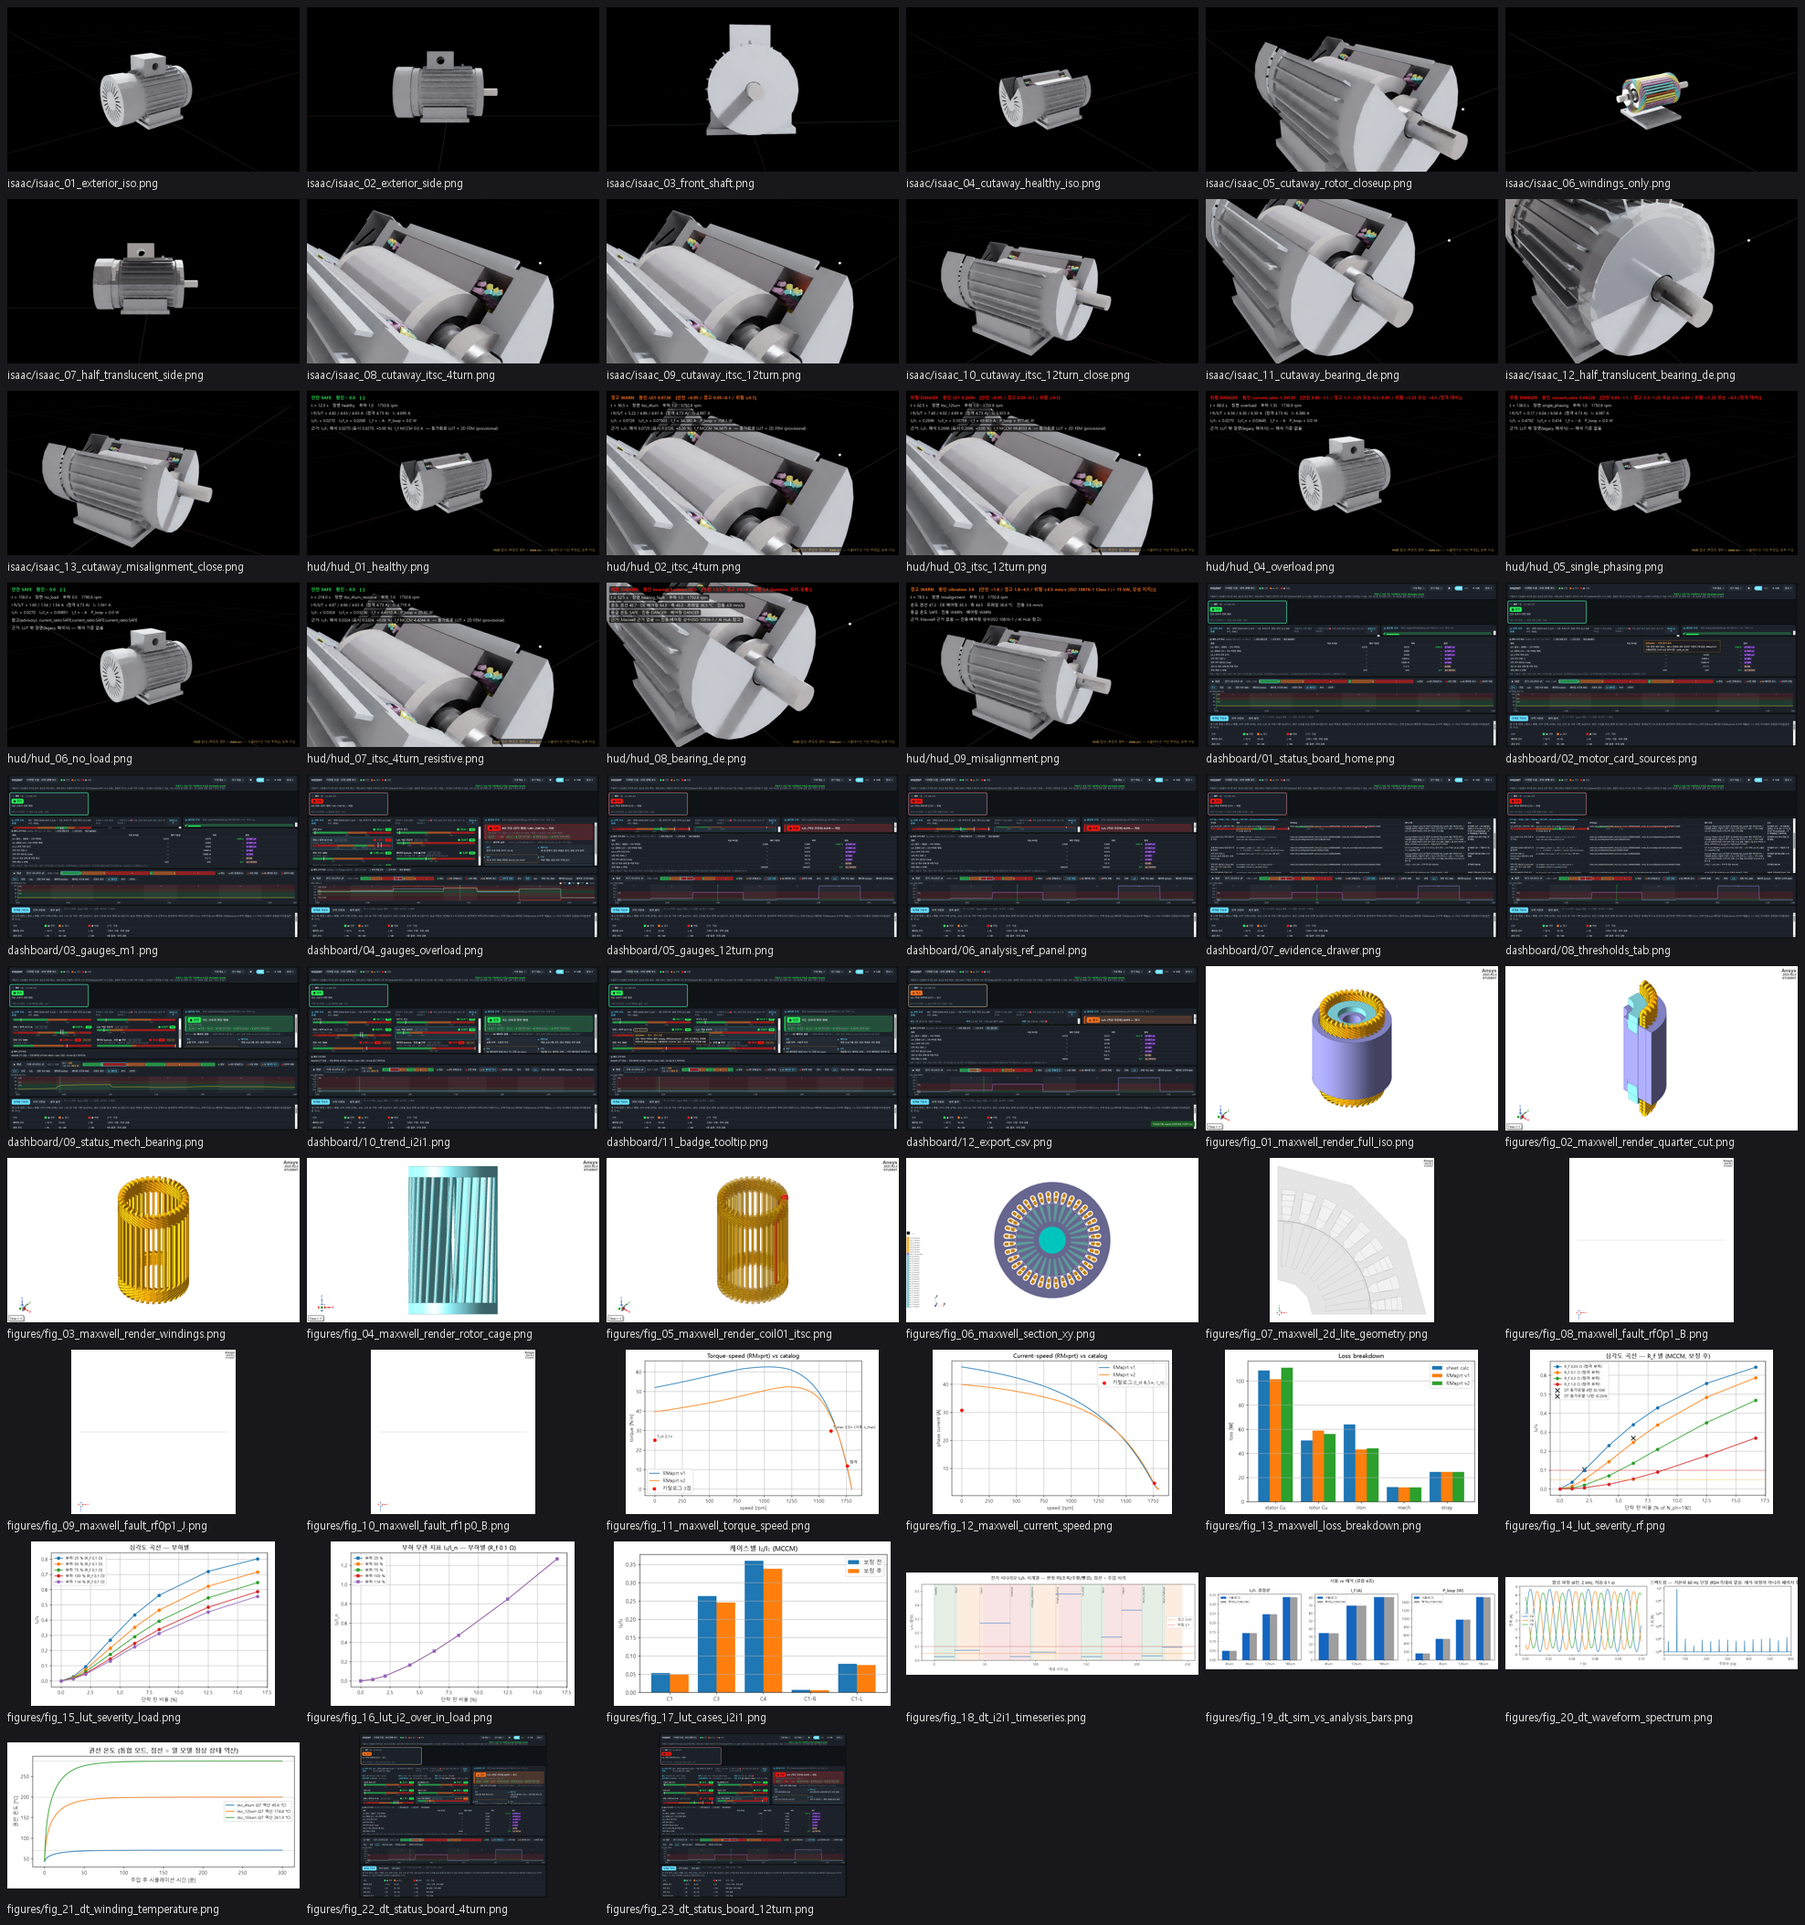
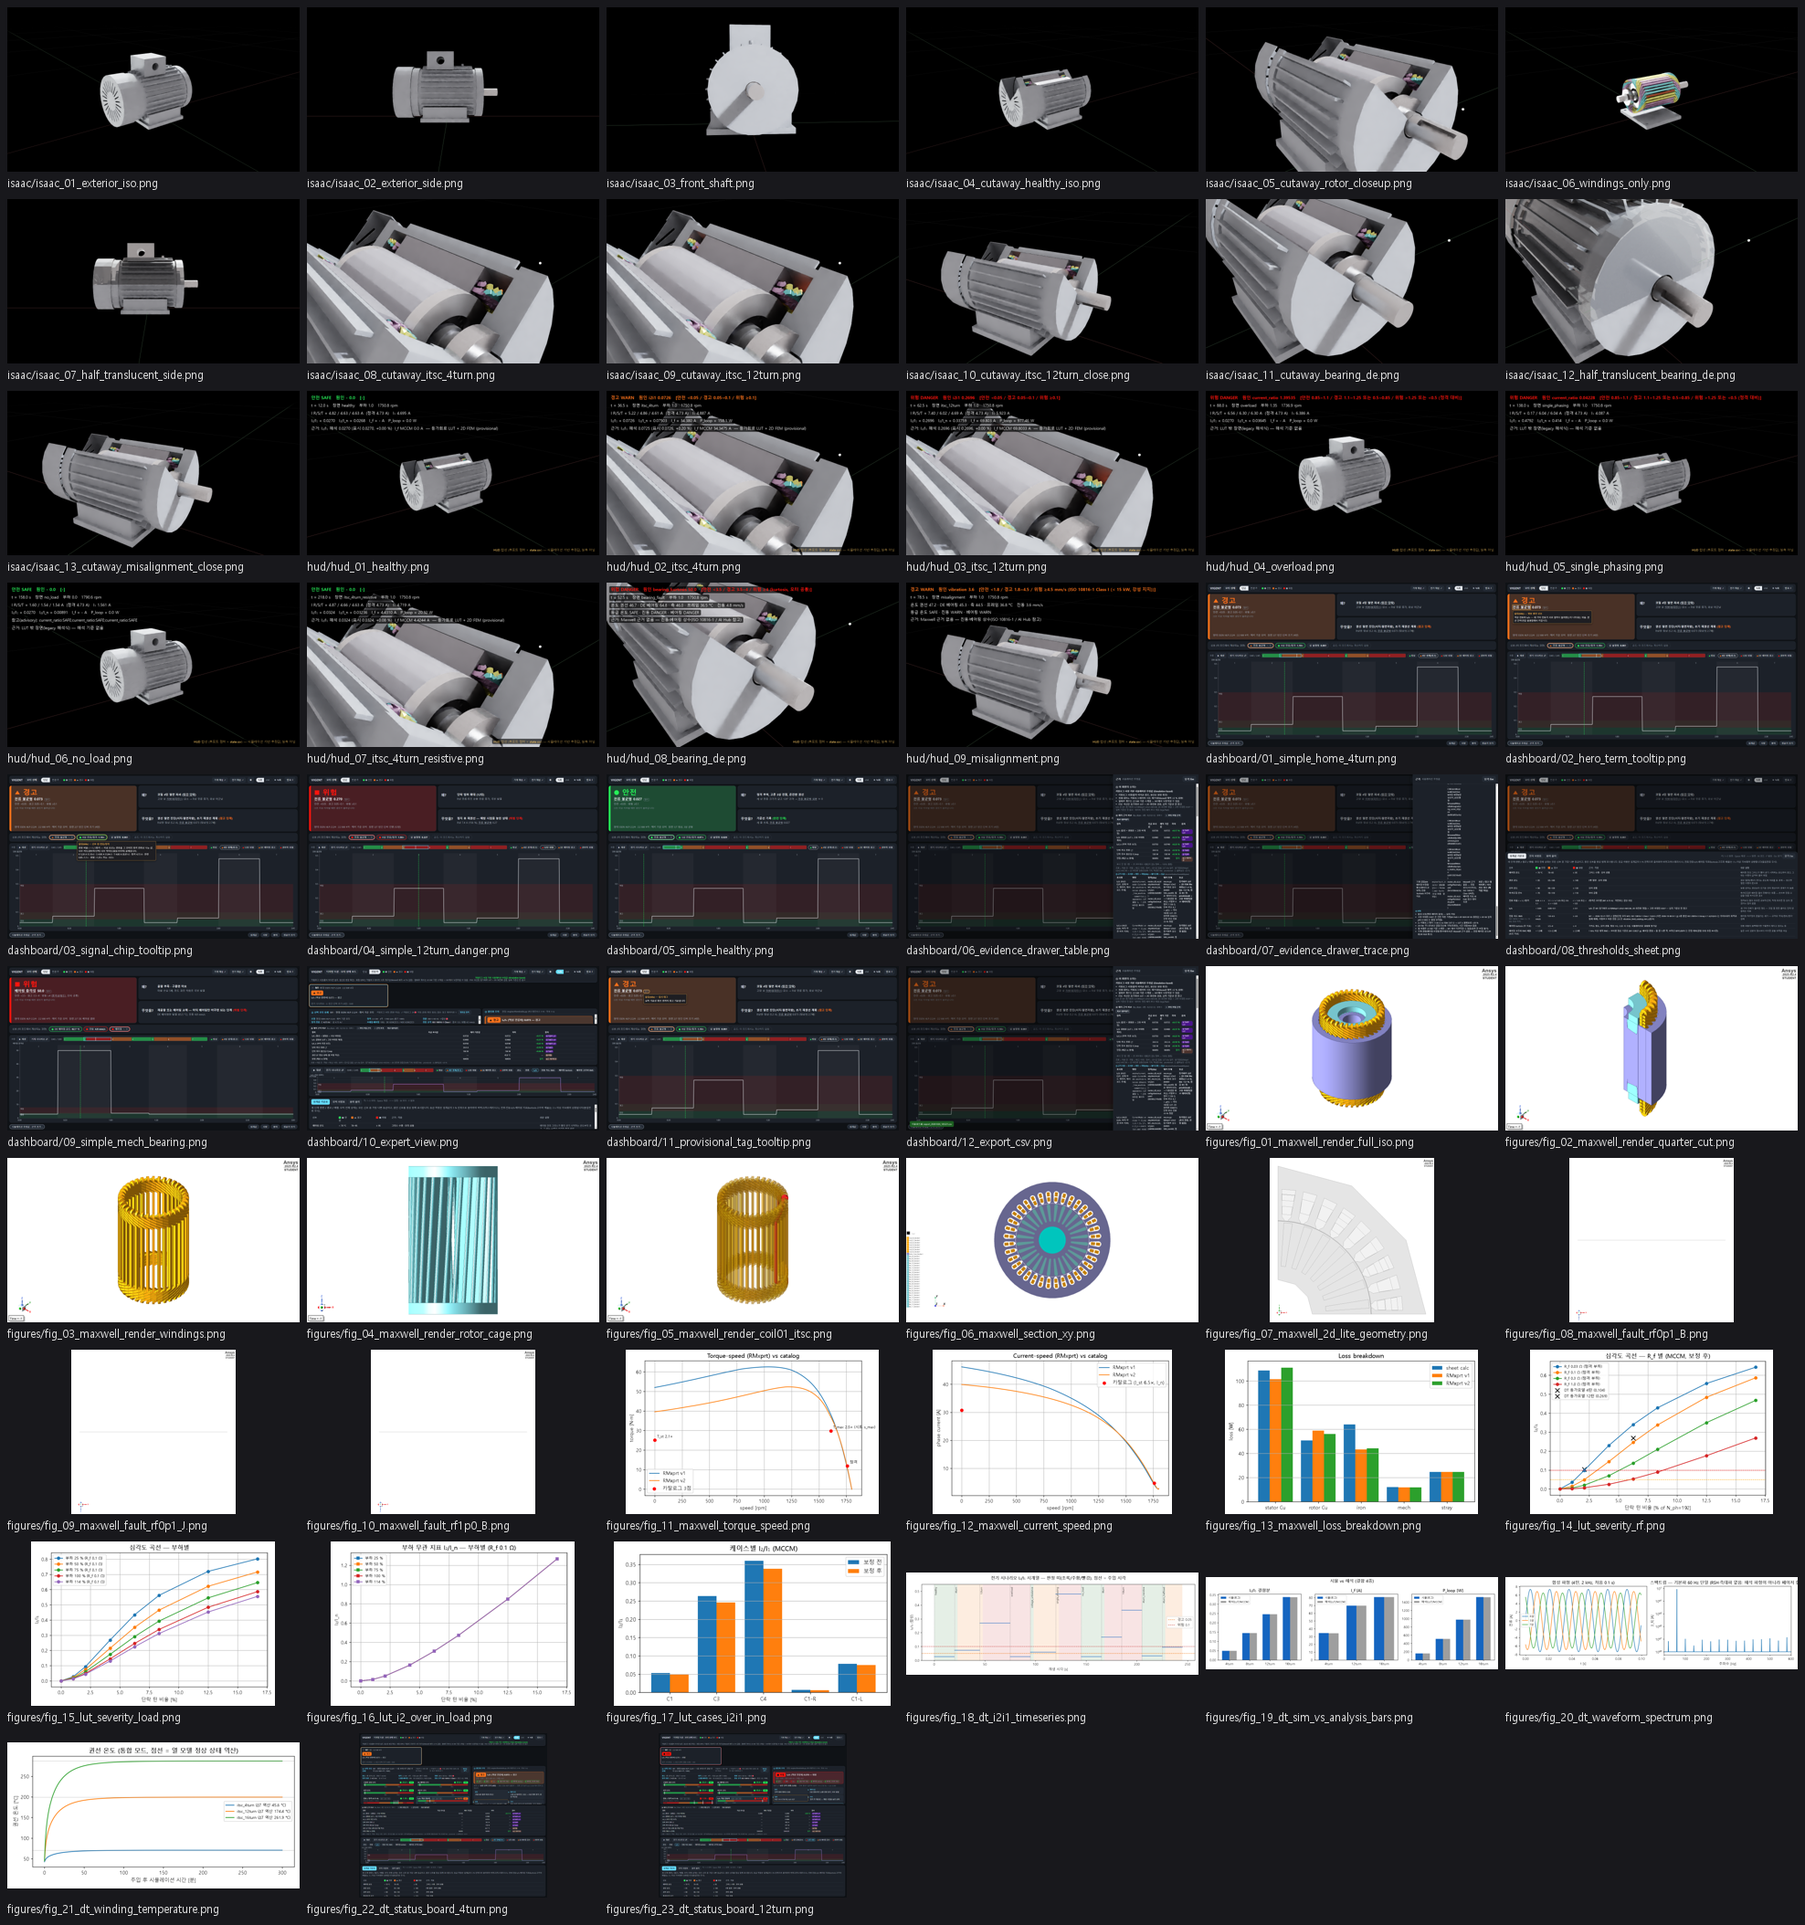
media: dashboard captures on simple view
상태 보드 단순 보기 기준으로 대시보드 사진 12장·워크스루·side-by-side 재캡처(dashboard_shots.mjs: 사진마다 새 문서 로드, PHOTOS_ONLY 스위치). index/meta/README 재생성.

Changed region(s): [[0.0, 0.3083, 1.0, 0.5859]]

diff --git a/motor_dt_viz/tools/media/capture_all.py b/motor_dt_viz/tools/media/capture_all.py
@@ -531,6 +531,7 @@ def write_readme(root: str, date: str, meta: dict, sections: dict):
          "Isaac 은 PowerShell/cmd 에서만 (Git Bash 자식은 Startup 직후 조용히 종료). 카메라 프리셋은 `tools/media/cameras.yaml` = `viz/m1_model.py` 의 값, 캡처용 인자는 `--res W H`·`--cam_plan`·`--shot_plan`(파일명 `@WxH`).", "",
          "## 한계", "- Isaac 뷰포트 캡처(`capture_viewport_to_file`)에는 omni.ui HUD 가 찍히지 않는다 → `hud/` 는 같은 시각 state.csv 값을 합성한 것(`check_vs_state.json` 으로 1회 대조). 영상(`--record`)은 데스크톱 창 캡처라 HUD 가 그대로 들어간다.",
          "- 대시보드 네이티브 title 툴팁은 스크린샷에 안 찍혀 같은 문장을 DOM 오버레이로 그렸다(페이지 코드 변경 없음, 캡션에 원문).", "- 해설 화면(#/electrical, #/mechanical)은 이전 22 kW 녹화 영상을 재생하므로 제외했다 — 상태 보드(#/status) 기준으로 대체.",
+         "- 대시보드 사진·영상은 상태 보드 **단순 보기**(2026-10-26 `dashboard: simple view (3-layer IA)` 이후) 기준이다. 전문가 보기는 10번 사진 한 장. 22 kW 문구는 근거 서랍·전문가 보기의 정직성 주석에만 보인다(index.md 표시).",
          "- 영상의 창 캡처는 창 테두리를 포함할 수 있어 1920×1080 으로 scale/pad 했다(검은 여백 가능).", ""]
     if big:
         L += ["## 60 MB 초과 영상(저장소 밖)", ""] + [f"- {c['file']} {c['size_mb']} MB → 로컬 `docs/media/{date}/video/` 에만 둠" for c in big] + [""]

diff --git a/docs/media/20261026/index.md b/docs/media/20261026/index.md
@@ -1,6 +1,6 @@
 # 보고용 미디어 팩 — 2026-10-26
 
-M1 (HLP-2.2/4) 디지털 트윈 — Isaac Sim 4.5 장면·HUD·대시보드·해석 그림. 커밋 DT `75bd475` · Maxwell `3c4e22e` · 시드 없음(결정적) · 배속 1×.
+M1 (HLP-2.2/4) 디지털 트윈 — Isaac Sim 4.5 장면·HUD·대시보드·해석 그림. 커밋 DT `166ba85` · Maxwell `3c4e22e` · 시드 없음(결정적) · 배속 1×.
 모든 숫자는 엔진 출력(state.csv)·검증 산출물·LUT 값이며 연출용 숫자는 없다. 파일명은 ASCII, 설명은 이 표의 캡션. 규격·재현·수동 캡처 체크리스트는 `README.md`.
 
 ![contact sheet](contact_sheet.png)  (57 장 썸네일)
@@ -41,20 +41,21 @@ M1 (HLP-2.2/4) 디지털 트윈 — Isaac Sim 4.5 장면·HUD·대시보드·해
 
 | 파일 | 해상도 | URL | 캡션 | 22 kW 문구 |
 |---|---|---|---|---|
-| [01_status_board_home.png](dashboard/01_status_board_home.png) | 1920x1080 | `/#/status?m=M1&t=40` | 상태 보드 첫 화면 — M1 카드·시나리오 칩·정직성 4줄 (전기 모드 40 s, 4턴 경고 구간) | 보임 |
-| [02_motor_card_sources.png](dashboard/02_motor_card_sources.png) | 1920x1080 | `/#/status?m=M1&t=40` | 모터 상세 출처 아이콘 — 결선(Y) 항목의 출처 툴팁을 오버레이로 표시 (현장 확인 필요 표시) — 툴팁 원문: “가정 (현장 확인 필요) · 380 V 전용형 내부 결선은 카탈로그에 없음. RMxprt·LUT 모델(상전압 219.4 V)과 일치시킴 · verify_on_site” | 보임 |
-| [03_gauges_m1.png](dashboard/03_gauges_m1.png) | 1920x1080 | `/#/status?m=M1&t=40` | 게이지 — 진동(ISO 10816-1 Class I)·전류/정격·I₂/I₁·온도, 4턴 경고 시각 40 s | 보임 |
-| [04_gauges_overload.png](dashboard/04_gauges_overload.png) | 1920x1080 | `/#/status?m=M1&t=40` | (대체) 상태 보드 전기 모드 과부하 장면(85 s) 게이지 — 전류/정격 상한 위험 | 보임 |
-| [05_gauges_12turn.png](dashboard/05_gauges_12turn.png) | 1920x1080 | `/#/status?m=M1&t=40` | (대체) 상태 보드 전기 모드 12턴 위험(60 s) 게이지 — I₂/I₁ 위험, R상 과전류 | 보임 |
-| [06_analysis_ref_panel.png](dashboard/06_analysis_ref_panel.png) | 1920x1080 | `/#/status?m=M1&t=40` | ④ 해석 근거 비교 — 시뮬 | 해석 기준값 | 차이 % | 출처 배지 (12턴, 60 s) | 보임 |
-| [07_evidence_drawer.png](dashboard/07_evidence_drawer.png) | 1920x1080 | `/#/status?m=M1&t=40` | '근거 보기' 서랍 — 표시량 → 엔진 → 파일(sha) → 해석 단계 → 등급 + 한계 | 보임 |
-| [08_thresholds_tab.png](dashboard/08_thresholds_tab.png) | 1920x1080 | `/#/status?m=M1&t=40` | 임계값 기준표 탭 — 신호별 안전/경고/위험 경계와 근거(source·status) | 보임 |
-| [09_status_mech_bearing.png](dashboard/09_status_mech_bearing.png) | 1920x1080 | `/#/status?m=M1&t=40` | (대체) 상태 보드 기계 모드 DE 베어링 경고 장면(27.5 s) — 베어링 온도·진동 게이지 | 보임 |
-| [10_trend_i2i1.png](dashboard/10_trend_i2i1.png) | 1920x1080 | `/#/status?m=M1&t=40` | (대체) 상태 보드 추세 차트 — I₂/I₁ 시계열과 임계선 (전기 모드 40 s) | 보임 |
-| [11_badge_tooltip.png](dashboard/11_badge_tooltip.png) | 1920x1080 | `/#/status?m=M1&t=40` | 게이지 '참고 · 임시 기준' 배지 툴팁 — 실측 기준선 미확보(provisional) 문장을 오버레이로 표시 — 툴팁 원문: “실측 기준선 미확보 (출처 catalog, 상태 provisional) — 실측 모드에서는 판정에 반영되지 않음(advisory). 시뮬레이션 시나리오: 임시 기준으로 종합 판정에 포함” | 보임 |
-| [12_export_csv.png](dashboard/12_export_csv.png) | 1920x1080 | `/#/status?m=M1&t=40` | '비교 내보내기' 직후 — 다운로드 파일 export_20261026_152811.csv (V2 형식 CSV, 4턴 40 s) | 보임 |
+| [01_simple_home_4turn.png](dashboard/01_simple_home_4turn.png) | 1920x1080 | `/?r=1793001110261#/status?m=M1&t=40` | 단순 보기 첫 화면 — 경고 · 전류 불균형 0.073 · 왜?/무엇을? · 신호 칩 · 흐름 (전기 40 s, 턴간 단락 4턴) | 없음 |
+| [02_hero_term_tooltip.png](dashboard/02_hero_term_tooltip.png) | 1920x1080 | `/?r=1793001110261#/status?m=M1&t=40` | 영웅 원인 신호 '전류 불균형' 의 툴팁(정식 용어 역상 전류비 I₂/I₁ + 설명)을 오버레이로 표시 — 툴팁 원문: “역상 전류비 I₂/I₁ — 세 가닥 전류가 서로 얼마나 틀어졌는지 나타내는 비율. 권선 단락·전압 불평형에서 커집니다.” | 없음 |
+| [03_signal_chip_tooltip.png](dashboard/03_signal_chip_tooltip.png) | 1920x1080 | `/?r=1793001110261#/status?m=M1&t=40` | 신호 띠 '전류/정격' 칩 툴팁 — 상별 전류(A)·정격·임계 구간을 오버레이로 표시 — 툴팁 원문: “전류 비율 r = I / I정격 — 지금 흐르는 전류를 그 모터의 정격 전류로 나눈 값. 너무 커도(과부하·단락) 너무 작아도(결상·무부하) 문제입니다.
+R 5.20 A (1.10×) · S 4.90 A (1.04×) · T 4.60 A (0.97×) · 정격 4.73 A · 안전 0.85~1.1× · 위험 >1.25× 또는 <0.5×” | 없음 |
+| [04_simple_12turn_danger.png](dashboard/04_simple_12turn_danger.png) | 1920x1080 | `/?r=1793001113519#/status?m=M1&t=60` | 단순 보기 — 위험 · 12턴 (60 s): 전류 불균형 0.270, 무엇을? 정지 후 재권선 | 없음 |
+| [05_simple_healthy.png](dashboard/05_simple_healthy.png) | 1920x1080 | `/?r=1793001116664#/status?m=M1&t=15` | 단순 보기 — 안전 · 정상 (15 s): 기준선, 전류 불균형 0.027 | 없음 |
+| [06_evidence_drawer_table.png](dashboard/06_evidence_drawer_table.png) | 1920x1080 | `/?r=1793001119814#/status?m=M1&t=40&drawer=1` | 근거 서랍 ① 정직성 4줄 ② 해석 근거 비교 — 시뮬값 있는 행만(결함분·I₂/I_n·I_f·P_loop 채워짐, — 1행 접힘) | 보임 |
+| [07_evidence_drawer_trace.png](dashboard/07_evidence_drawer_trace.png) | 1920x1080 | `/?r=1793001119814#/status?m=M1&t=40&drawer=1` | 근거 서랍 ③ 근거 사슬(표시량 → 엔진 → 파일 sha → 해석 단계 → 등급) ④ 한계 | 보임 |
+| [08_thresholds_sheet.png](dashboard/08_thresholds_sheet.png) | 1920x1080 | `/?r=1793001124142#/status?m=M1&t=40&tab=thr` | 임계값 기준표 시트 — 안전/경고/위험 경계 + 근거 + 쉬운 설명 열 | 없음 |
+| [09_simple_mech_bearing.png](dashboard/09_simple_mech_bearing.png) | 1920x1080 | `/?r=1793001127789#/status?m=M1&t=40&mode=mechanical` | 단순 보기 기계 모드 — DE 베어링 열화 장면(40 s): 온도·진동·베어링 칩, DE 베어링 온도 추세 | 없음 |
+| [10_expert_view.png](dashboard/10_expert_view.png) | 1920x1080 | `/?r=1793001131425#/status?m=M1&t=40&view=expert` | 전문가 보기(기존 보드) — 카드·게이지·원인과 조치·해석 근거 비교(엔진 값 채움)·추세·기준표 | 보임 |
+| [11_provisional_tag_tooltip.png](dashboard/11_provisional_tag_tooltip.png) | 1920x1080 | `/?r=1793001135106#/status?m=M1&t=40` | 영웅 '임시' 태그 툴팁(실측 기준선 확보 전까지 참고 기준)을 오버레이로 표시 — 툴팁 원문: “실측 기준선 확보 전까지 참고 기준입니다” | 없음 |
+| [12_export_csv.png](dashboard/12_export_csv.png) | 1920x1080 | `/?r=1793001138254#/status?m=M1&t=40&drawer=1` | 근거 서랍 '비교 내보내기' 직후 — 다운로드 파일 export_20261026_165221.csv (V2 형식 CSV, 4턴 40 s) | 보임 |
 
-제외(22 kW 자산·문구): 04_elec_panel_4turn / 05_elec_panel_12turn (#/electrical) — 해설 화면은 이전 22 kW 녹화 영상(public/media/integrated_autoplay.mp4)을 재생 — 22 kW 자산 사용 금지. 상태 보드 전기 모드 장면(04·05)으로 대체; 09_narration_mech_bearing / 10_narration_elec_itsc (#/mechanical, #/electrical) — 같은 이유. 상태 보드 기계 모드(09)·추세 차트(10)로 대체
+제외(22 kW 자산·문구): #/electrical · #/mechanical 해설 화면 — 이전 22 kW 녹화 영상(public/media/integrated_autoplay.mp4)을 재생 — 22 kW 자산 사용 금지. 상태 보드(단순 보기·전문가 보기)만 캡처
 
 ## 영상·GIF (10 편) — `video/`
 
@@ -68,8 +69,8 @@ M1 (HLP-2.2/4) 디지털 트윈 — Isaac Sim 4.5 장면·HUD·대시보드·해
 | [06_integrated_full.mp4](video/06_integrated_full.mp4) | 166.0 | 0~166 s | 통합 시나리오 전체 0~166 s: 정상·베어링·4턴·12턴·결론 | 26.1 |
 | [gif_01_orbit.gif](video/gif_01_orbit.gif) |  | 01_exterior_orbit.mp4 | 01_exterior_orbit 의 0~10 s (12 fps) | 3.43 |
 | [gif_02_itsc_glow.gif](video/gif_02_itsc_glow.gif) |  | 03_electrical_fault.mp4 | 03_electrical_fault 의 18~46 s (12 fps) | 5.85 |
-| [07_dashboard_walkthrough.mp4](video/07_dashboard_walkthrough.mp4) | 54.2 |  | 대시보드 워크스루 — 첫 화면(15 s) → 4턴 칩 → 게이지 → 해석 근거 비교 → 근거 보기 → 12턴 칩 → 맨 위 (Edge 창 화면 녹화, 1920×1080) | 1.4 |
-| [08_side_by_side.mp4](video/08_side_by_side.mp4) |  |  | Isaac 전기 시나리오 녹화(왼쪽, 장면 0~60 s)와 대시보드 상태 보드 재생(오른쪽, 같은 시각) 나란히 — 동기는 재생 클릭 벽시계 기준 ±0.5 s | 3.2 |
+| [07_dashboard_walkthrough.mp4](video/07_dashboard_walkthrough.mp4) | 55.2 |  | 대시보드 워크스루 — 첫 화면(15 s) → 4턴 칩 → 게이지 → 해석 근거 비교 → 근거 보기 → 12턴 칩 → 맨 위 (Edge 창 화면 녹화, 1920×1080) | 2.2 |
+| [08_side_by_side.mp4](video/08_side_by_side.mp4) |  |  | Isaac 전기 시나리오 녹화(왼쪽, 장면 0~60 s)와 대시보드 상태 보드 재생(오른쪽, 같은 시각) 나란히 — 동기는 재생 클릭 벽시계 기준 ±0.5 s | 3.0 |
 
 ## 해석·검증 그림 (23 장) — `figures/`
 

diff --git a/docs/media/20261026/README.md b/docs/media/20261026/README.md
@@ -23,6 +23,7 @@ Isaac 은 PowerShell/cmd 에서만 (Git Bash 자식은 Startup 직후 조용히 
 - Isaac 뷰포트 캡처(`capture_viewport_to_file`)에는 omni.ui HUD 가 찍히지 않는다 → `hud/` 는 같은 시각 state.csv 값을 합성한 것(`check_vs_state.json` 으로 1회 대조). 영상(`--record`)은 데스크톱 창 캡처라 HUD 가 그대로 들어간다.
 - 대시보드 네이티브 title 툴팁은 스크린샷에 안 찍혀 같은 문장을 DOM 오버레이로 그렸다(페이지 코드 변경 없음, 캡션에 원문).
 - 해설 화면(#/electrical, #/mechanical)은 이전 22 kW 녹화 영상을 재생하므로 제외했다 — 상태 보드(#/status) 기준으로 대체.
+- 대시보드 사진·영상은 상태 보드 **단순 보기**(2026-10-26 `dashboard: simple view (3-layer IA)` 이후) 기준이다. 전문가 보기는 10번 사진 한 장. 22 kW 문구는 근거 서랍·전문가 보기의 정직성 주석에만 보인다(index.md 표시).
 - 영상의 창 캡처는 창 테두리를 포함할 수 있어 1920×1080 으로 scale/pad 했다(검은 여백 가능).
 
 ## 수동 캡처 체크리스트 (자동화 불가 — 사람이 찍어 이 폴더에 넣고 index.md 에 한 줄 추가)
